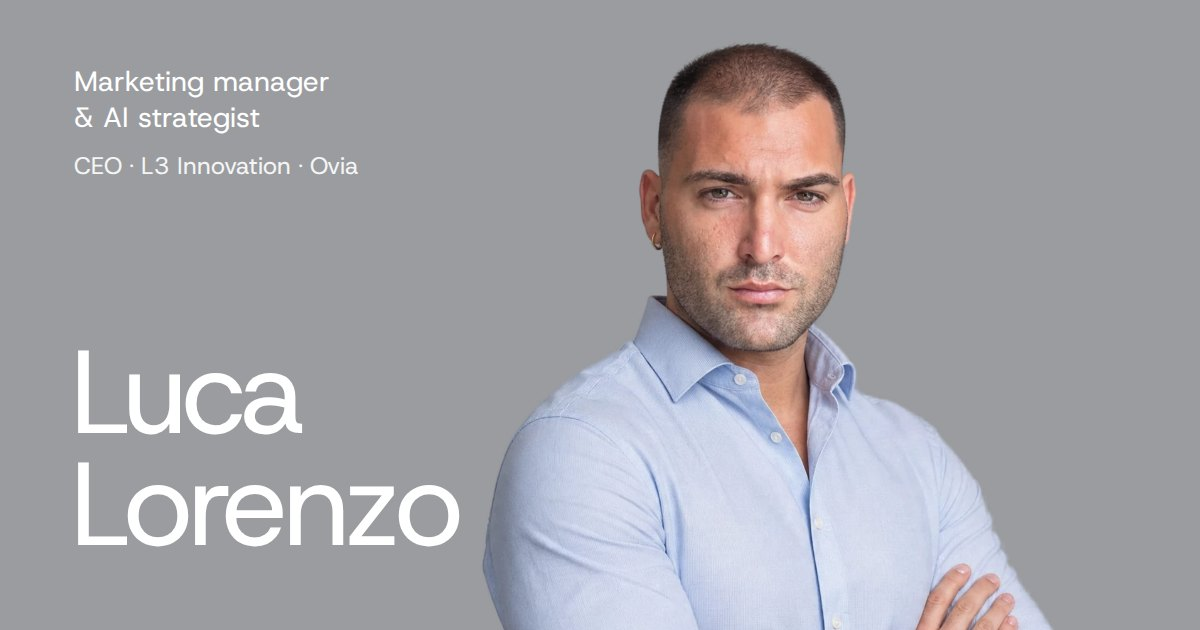
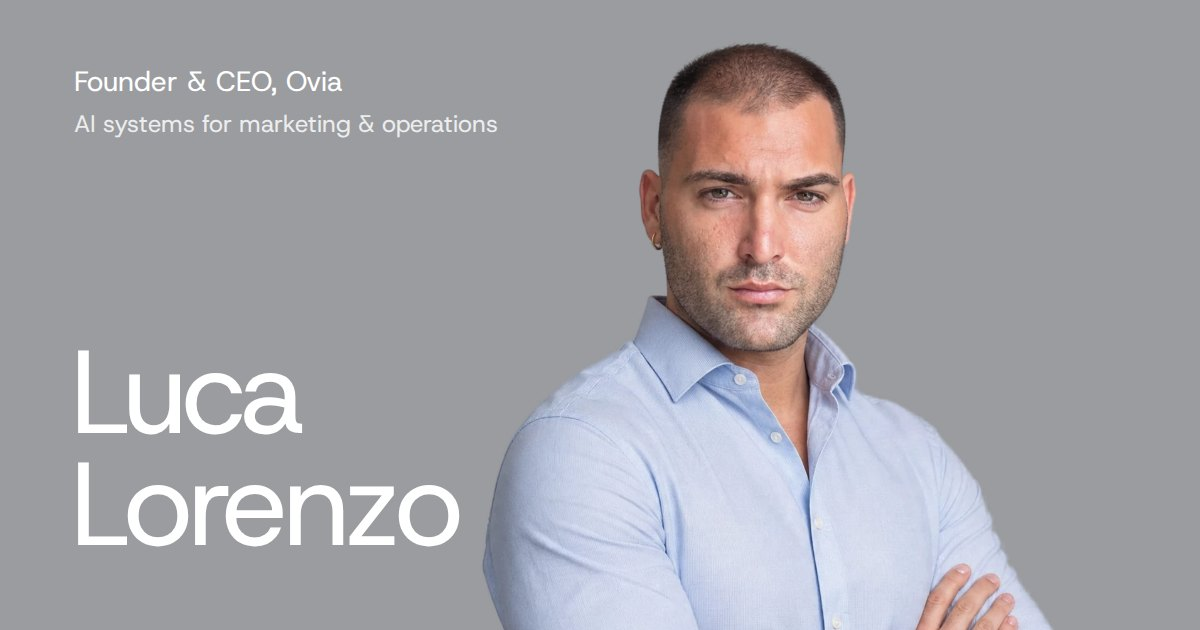
Dicitura: Founder & CEO, Ovia · AI systems for marketing & operations
Claude-Session: https://claude.ai/code/session_01NZJQHMXjxHm7zaN3ZZXDcZ

Changed region(s): [[0.0617, 0.181, 0.4317, 0.2111], [0.0617, 0.0905, 0.3083, 0.1508], [0.0617, 0.2413, 0.3083, 0.2714]]

diff --git a/index.html b/index.html
@@ -1,8 +1,8 @@
 <!doctype html>
 <html lang="it">
 <head>
-<meta charset="utf-8"><meta name="viewport" content="width=device-width,initial-scale=1"><meta name="pt-root" content="./"><title>Luca Lorenzo — Marketing manager &amp; AI strategist</title>
-<meta name="description" content="Luca Lorenzo, CEO di L3 Innovation e Ovia: aiuto piccole imprese e studi professionali a farsi trovare da Google e dalle intelligenze artificiali. Lavori, percorso e musica come John Dark."><link rel="canonical" href="https://lucalorenzo.it/"><link rel="icon" href="assets/favicon.svg" type="image/svg+xml"><link rel="apple-touch-icon" href="assets/apple-touch-icon.png"><meta name="theme-color" content="#1C1D20"><meta property="og:type" content="website"><meta property="og:locale" content="it_IT"><meta property="og:site_name" content="Luca Lorenzo"><meta property="og:title" content="Luca Lorenzo — Marketing manager &amp; AI strategist"><meta property="og:description" content="Luca Lorenzo, CEO di L3 Innovation e Ovia: aiuto piccole imprese e studi professionali a farsi trovare da Google e dalle intelligenze artificiali. Lavori, percorso e musica come John Dark."><meta property="og:url" content="https://lucalorenzo.it/"><meta property="og:image" content="https://lucalorenzo.it/assets/og.jpg"><meta property="og:image:width" content="1200"><meta property="og:image:height" content="630"><meta name="twitter:card" content="summary_large_image">
+<meta charset="utf-8"><meta name="viewport" content="width=device-width,initial-scale=1"><meta name="pt-root" content="./"><title>Luca Lorenzo — Founder &amp; CEO, Ovia</title>
+<meta name="description" content="Luca Lorenzo, Founder &amp; CEO di Ovia: costruisco sistemi AI per il marketing e le operations di piccole imprese e studi professionali. Lavori, percorso e musica come John Dark."><link rel="canonical" href="https://lucalorenzo.it/"><link rel="icon" href="assets/favicon.svg" type="image/svg+xml"><link rel="apple-touch-icon" href="assets/apple-touch-icon.png"><meta name="theme-color" content="#1C1D20"><meta property="og:type" content="website"><meta property="og:locale" content="it_IT"><meta property="og:site_name" content="Luca Lorenzo"><meta property="og:title" content="Luca Lorenzo — Founder &amp; CEO, Ovia · AI systems for marketing &amp; operations"><meta property="og:description" content="Luca Lorenzo, Founder &amp; CEO di Ovia: costruisco sistemi AI per il marketing e le operations di piccole imprese e studi professionali. Lavori, percorso e musica come John Dark."><meta property="og:url" content="https://lucalorenzo.it/"><meta property="og:image" content="https://lucalorenzo.it/assets/og.jpg"><meta property="og:image:width" content="1200"><meta property="og:image:height" content="630"><meta name="twitter:card" content="summary_large_image">
 <link rel="preload" href="assets/luca-hero.webp" as="image" fetchpriority="high">
 <link rel="preload" href="assets/fonts/host-grotesk-latin-400-normal.woff2" as="font" type="font/woff2" crossorigin><style>@font-face{font-family:'Host Grotesk';font-style:normal;font-weight:300;font-display:swap;src:url(assets/fonts/host-grotesk-latin-300-normal.woff2) format('woff2')}@font-face{font-family:'Host Grotesk';font-style:normal;font-weight:400;font-display:swap;src:url(assets/fonts/host-grotesk-latin-400-normal.woff2) format('woff2')}@font-face{font-family:'Host Grotesk';font-style:normal;font-weight:500;font-display:swap;src:url(assets/fonts/host-grotesk-latin-500-normal.woff2) format('woff2')}@font-face{font-family:'Host Grotesk';font-style:normal;font-weight:600;font-display:swap;src:url(assets/fonts/host-grotesk-latin-600-normal.woff2) format('woff2')}@font-face{font-family:'Bricolage Grotesque';font-style:normal;font-weight:700;font-display:swap;src:url(assets/fonts/bricolage-grotesque-latin-700-normal.woff2) format('woff2')}@font-face{font-family:'Bricolage Grotesque';font-style:normal;font-weight:800;font-display:swap;src:url(assets/fonts/bricolage-grotesque-latin-800-normal.woff2) format('woff2')}</style>
 <style>
@@ -184,6 +184,7 @@ body.tvon .tvhint,html.tv-known .tvhint{opacity:0!important;transform:translateY
 body.tvon .marquee{opacity:.65;transition:opacity .8s var(--tv-in)}
 .role .rt{display:block;position:relative}
 .role .r1,.role .r2{display:block;transition:opacity .45s var(--tv-out),transform .55s var(--tv-out)}
+.role .r1 small{display:block;font-size:.6em;line-height:1.35;opacity:.78;margin-top:.55em;letter-spacing:.005em}
 .role .r2{position:absolute;left:0;top:0;opacity:0;transform:translateY(8px);white-space:nowrap}
 body.tvon .role .r1{opacity:0;transform:translateY(-8px);transition:opacity .4s var(--tv-in),transform .5s var(--tv-in)}
 body.tvon .role .r2{opacity:1;transform:none;transition:opacity .5s var(--tv-in) .3s,transform .6s var(--tv-in) .3s}
@@ -386,6 +387,7 @@ body.tvon .role .r2{opacity:1;transform:none;transition:opacity .5s var(--tv-in)
   .row .cat{grid-column:1;order:3;font-size:14px;color:var(--mute)}
   .row .yr{grid-row:1;grid-column:2}
   .role{top:auto;bottom:clamp(190px,34vw,300px);left:var(--gut);right:auto;font-size:20px;text-shadow:0 1px 14px rgba(0,0,0,.35)}
+  .role .r1 small{opacity:.94;font-size:.68em;text-shadow:0 1px 10px rgba(0,0,0,.45)}
   .role .arr{display:none}
   .loc{top:47%;font-size:12px;padding:10px 10px 10px 18px;gap:14px}
   .globe{width:40px;height:40px}
@@ -440,10 +442,10 @@ body.tvon .role .r2{opacity:1;transform:none;transition:opacity .5s var(--tv-in)
   <div class="loc hero-in"><span>Based<br>in Treviso,<br>nato a Lecce</span><span class="globe"><svg viewBox="0 0 32 32" fill="none" stroke="#fff" stroke-width="1.2"><circle cx="16" cy="16" r="13"/><ellipse cx="16" cy="16" rx="6" ry="13"/><path d="M3 16h26M5 9h22M5 23h22"/></svg></span></div>
   <div class="role hero-in">
     <svg class="arr" id="heroArr" viewBox="0 0 24 24" fill="none" stroke="#fff" stroke-width="1.4"><path d="M5 5l14 14M19 8v11H8"/></svg>
-    <span class="rt"><span class="r1">Marketing manager<br>&amp; AI strategist</span><span class="r2" aria-hidden="true">Di sera, John Dark<br>— pop-rap dal vivo</span></span>
+    <span class="rt"><span class="r1">Founder &amp; CEO, Ovia<small>AI systems for marketing<br>&amp; operations</small></span><span class="r2" aria-hidden="true">Di sera, John Dark<br>— pop-rap dal vivo</span></span>
   </div>
   <div class="marquee" aria-hidden="true"><div class="track" id="mq"><span>Luca Lorenzo —</span><span>Luca Lorenzo —</span></div></div>
-  <h1 style="position:absolute;width:1px;height:1px;overflow:hidden;clip:rect(0 0 0 0)">Luca Lorenzo, marketing manager e AI strategist</h1>
+  <h1 style="position:absolute;width:1px;height:1px;overflow:hidden;clip:rect(0 0 0 0)">Luca Lorenzo, Founder &amp; CEO di Ovia — AI systems for marketing &amp; operations</h1>
 </section>
 
 <main id="main">
